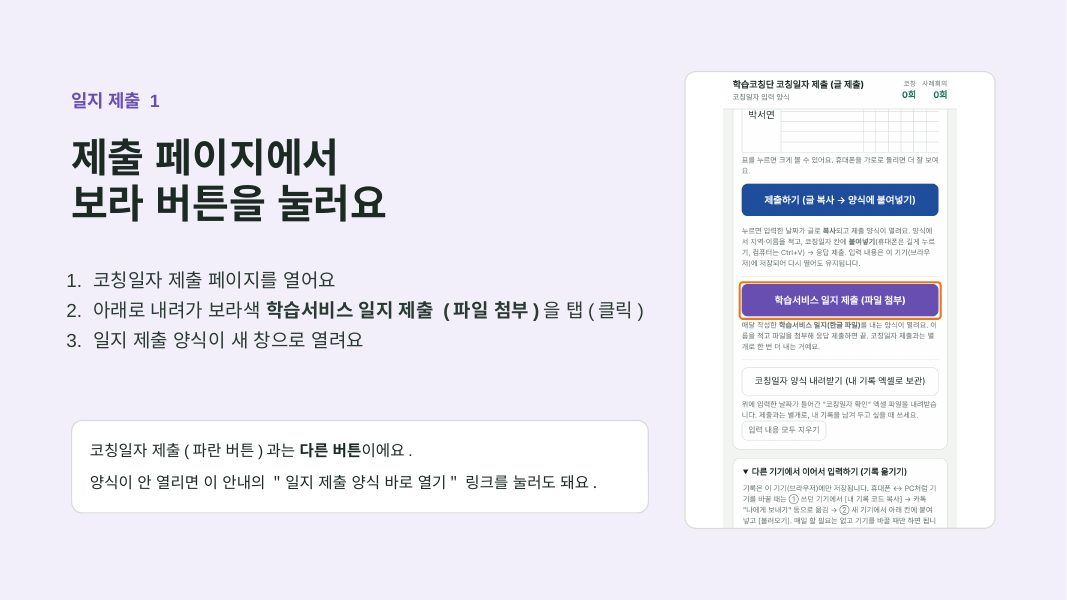
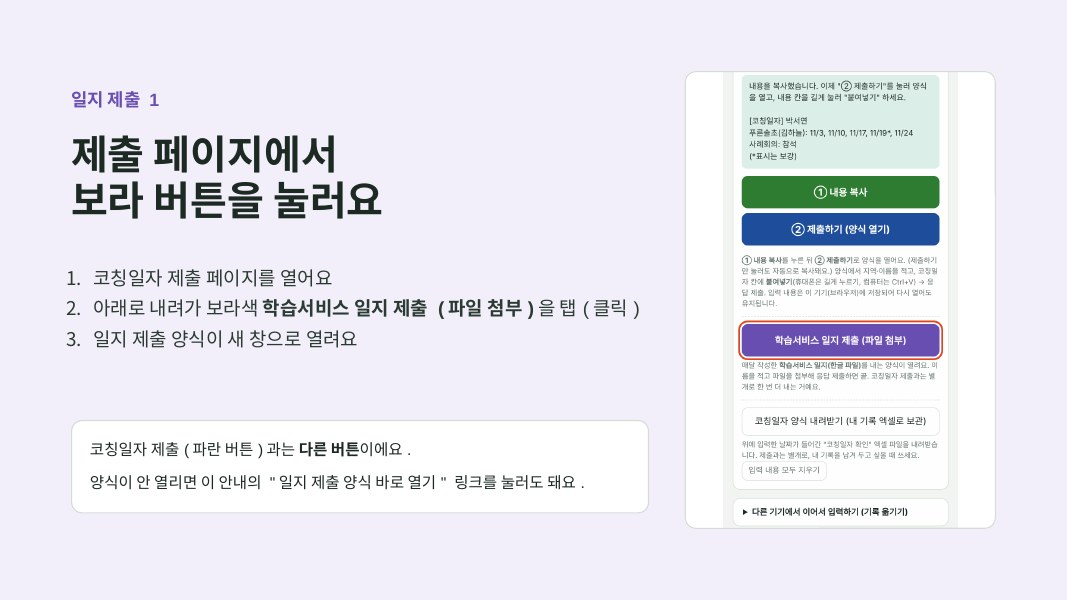
안내 슬라이드·PPT 업데이트: 월 선택 제거, ① 내용 복사 → ② 제출하기 반영, 화면 새로 캡처
Claude-Session: https://claude.ai/code/session_01Exv39G1aD2QThm9J7biebG

diff --git a/slides.html b/slides.html
@@ -13,15 +13,15 @@ body{display:flex;flex-direction:column}
 .nav button:disabled{background:#2c3a34;color:#7a8a83}
 .hint{font-size:12px;color:#8fa89e;text-align:center;padding:0 0 6px}
 </style></head><body>
-<div class="bar"><a href="coach.html">⌂ 홈</a><a href="./">제출 페이지</a><span class="sp"></span><span class="n" id="n"></span><a href="guide.pptx?v=3" download="코칭단_제출안내.pptx">PPT 받기</a></div>
+<div class="bar"><a href="coach.html">⌂ 홈</a><a href="./">제출 페이지</a><span class="sp"></span><span class="n" id="n"></span><a href="guide.pptx?v=4" download="코칭단_제출안내.pptx">PPT 받기</a></div>
 <div class="stage" id="st"><img id="im" alt="안내 슬라이드"></div>
 <div class="hint">좌우로 밀거나 아래 버튼으로 넘겨요 · 휴대폰을 가로로 돌리면 더 크게 보여요</div>
 <div class="nav"><button id="pv">‹ 이전</button><button id="nx">다음 ›</button></div>
 <script>
 var T=24,i=1;try{var h=parseInt(location.hash.slice(1));if(h>=1&&h<=T)i=h}catch(e){}
 var im=document.getElementById('im'),n=document.getElementById('n'),pv=document.getElementById('pv'),nx=document.getElementById('nx');
-function show(k){i=Math.max(1,Math.min(T,k));im.src='slides/s'+String(i).padStart(2,'0')+'.jpg?v=3';n.textContent=i+' / '+T;pv.disabled=i==1;nx.disabled=i==T;try{history.replaceState(null,'','#'+i)}catch(e){}
- if(i<T){new Image().src='slides/s'+String(i+1).padStart(2,'0')+'.jpg?v=3'}}
+function show(k){i=Math.max(1,Math.min(T,k));im.src='slides/s'+String(i).padStart(2,'0')+'.jpg?v=4';n.textContent=i+' / '+T;pv.disabled=i==1;nx.disabled=i==T;try{history.replaceState(null,'','#'+i)}catch(e){}
+ if(i<T){new Image().src='slides/s'+String(i+1).padStart(2,'0')+'.jpg?v=4'}}
 pv.onclick=function(){show(i-1)};nx.onclick=function(){show(i+1)};
 document.addEventListener('keydown',function(e){if(e.key=='ArrowRight')show(i+1);if(e.key=='ArrowLeft')show(i-1)});
 var x0=null;var st=document.getElementById('st');

diff --git a/coach.html b/coach.html
@@ -31,7 +31,7 @@
   <a class="card" href="./"><span class="ic" style="background:var(--blue)">✎</span><span><div class="t">코칭일지·학습서비스일지 제출</div><div class="d">수업한 날을 달력에 표시하고 제출해요</div></span><span class="arrow">›</span></a>
   <a class="card" href="center/"><span class="ic" style="background:var(--meet)">📅</span><span><div class="t">센터 안내·일정</div><div class="d">센터 일정과 안내사항, 사례회의 참석 응답</div></span><span class="arrow">›</span></a>
   <a class="card" href="https://walla.my/v/dQxgX01DyZjLc1TCJbPf" target="_blank" rel="noopener"><span class="ic" style="background:var(--brown)">📚</span><span><div class="t">교재·교구 대출·반납 신청</div><div class="d">왈라 양식으로 신청해요 (새 창)</div></span><span class="arrow">›</span></a>
-  <a class="card" href="slides.html?v=3"><span class="ic" style="background:var(--green)">▶</span><span><div class="t">사용 안내 슬라이드</div><div class="d">제출 페이지 쓰는 방법</div></span><span class="arrow">›</span></a>
+  <a class="card" href="slides.html?v=4"><span class="ic" style="background:var(--green)">▶</span><span><div class="t">사용 안내 슬라이드</div><div class="d">제출 페이지 쓰는 방법</div></span><span class="arrow">›</span></a>
 
   <p class="foot">이 페이지를 홈 화면에 추가해 두면 한 번에 들어올 수 있어요.</p>
 </main>
